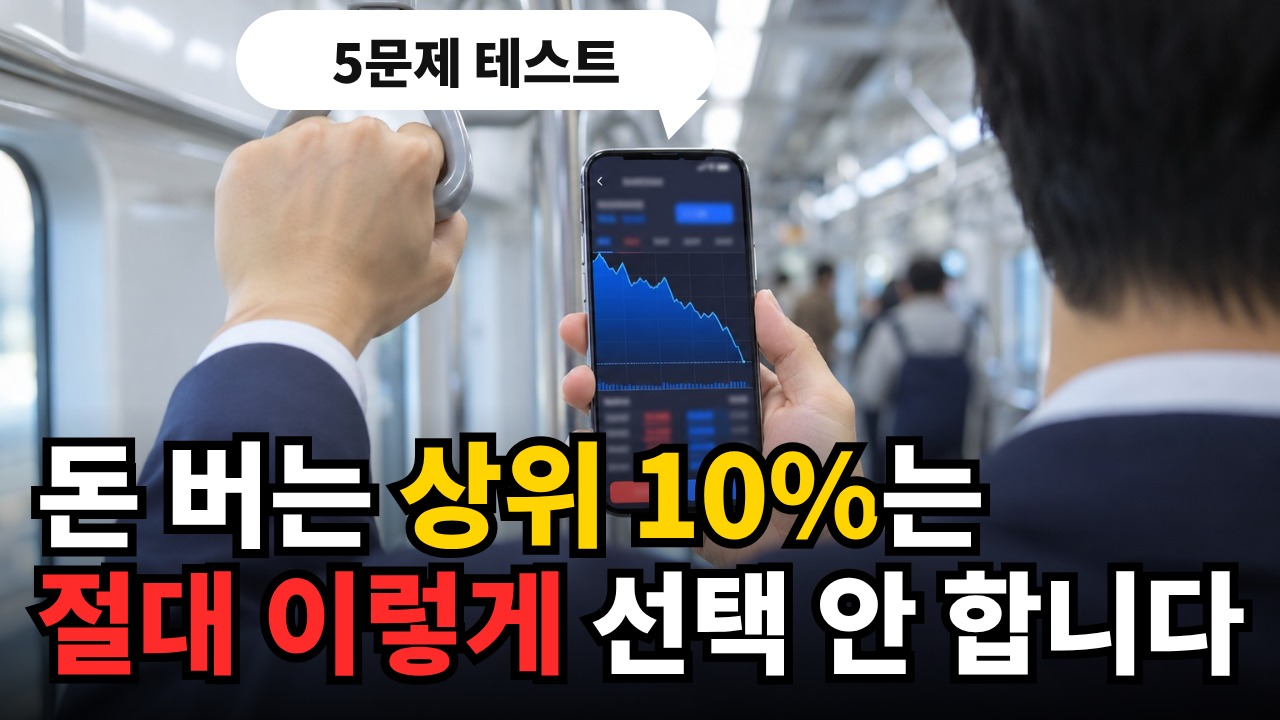
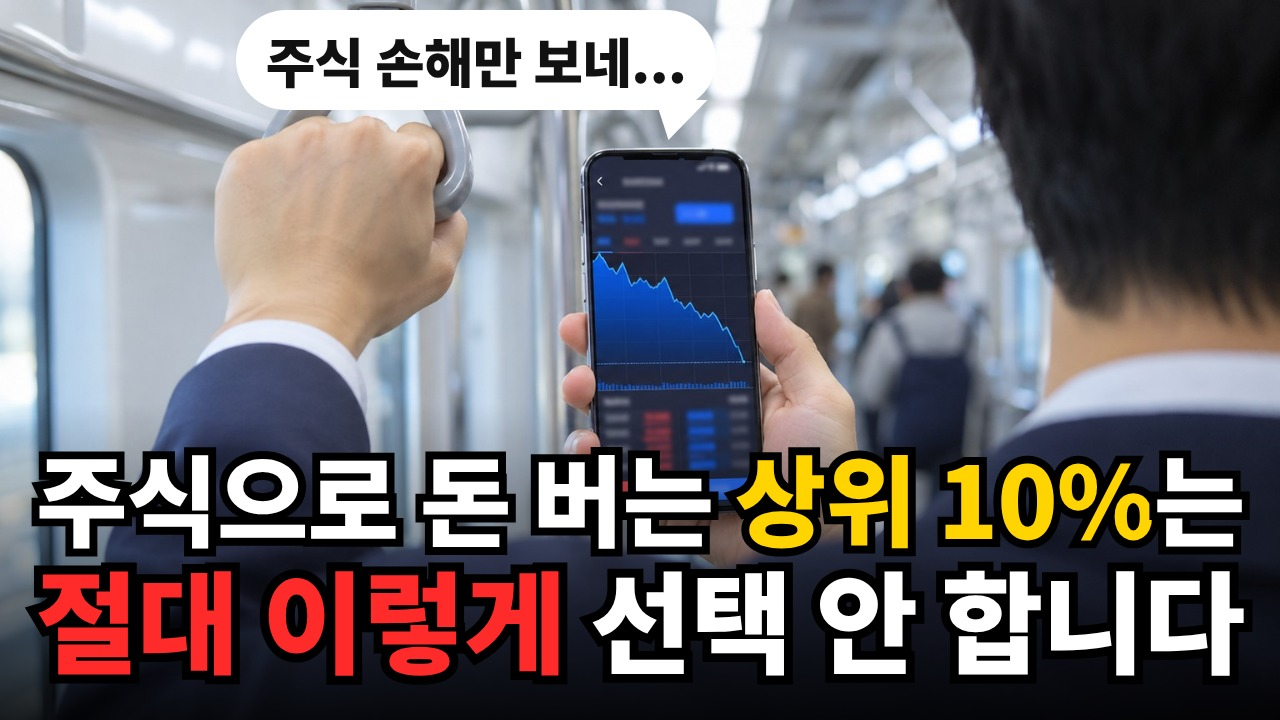
[stock] 1편 A/B 썸네일 2·3 문구·말풍선 고침 (5가지 선택 · 주식으로 돈 버는 상위 10%)
사용자 지시 "이런 5가지 선택~ 무조건 주식 손해~ 이렇게 수정하고 보조문구는 설마 나도? 설정하고 주식으로 돈 버는 ~ 상위10% 이렇게 수정하고 보조 문구는 주식 손해만 보네...  수정해".

Claude-Session: https://claude.ai/code/session_01PYG2Mrbc8C4HDSnBDWyHf6

Changed region(s): [[0.0, 0.5806, 1.0, 0.7944], [0.1875, 0.0306, 0.5312, 0.1222]]

diff --git a/stock/source/ppalli-test-2026-11/upload.md b/stock/source/ppalli-test-2026-11/upload.md
@@ -1,6 +1,7 @@
 # ppalli-test-2026-11 업로드 시트
 
-버전: v1.14 — 2026-11-05 — 1-1번 A/B 테스트 제목·썸네일 짝 (사용자 지시 "1. 주식 투자 중 이런 선택을 한다면 당신은 무조건 손해볼겁니다 2. 주식으로 돈버는 상위 %는 절대 이렇게 선택하지 않습니다 이 두가지 제목에 맞춰 썸네일 문구들 새로 만들어봐 상위%는 몇프로인지 평균 수치로 채우고" → "1편 ab 테스트에 쓸거야") · 썸네일 2·3 문구 새로.
+버전: v1.15 — 2026-11-06 — 1-1번 B·C 썸네일 문구·말풍선 (사용자 지시 "이런 5가지 선택~ 무조건 주식 손해~ 이렇게 수정하고 보조문구는 설마 나도? 설정하고 주식으로 돈 버는 ~ 상위10% 이렇게 수정하고 보조 문구는 주식 손해만 보네...  수정해").
+이전 v1.14 — 2026-11-05 — 1-1번 A/B 테스트 제목·썸네일 짝 (사용자 지시 "1. 주식 투자 중 이런 선택을 한다면 당신은 무조건 손해볼겁니다 2. 주식으로 돈버는 상위 %는 절대 이렇게 선택하지 않습니다 이 두가지 제목에 맞춰 썸네일 문구들 새로 만들어봐 상위%는 몇프로인지 평균 수치로 채우고" → "1편 ab 테스트에 쓸거야") · 썸네일 2·3 문구 새로.
 이전 v1.13 — 2026-11-05 — 외국어 설정 (사용자 지시 "외국어 자막, 제목, 썸네일 등 외국어 설정에 필요한 것들 생성하고 지시사항에 반영해 이건 영상이 렌더까지 완료되면 하는거야"): 6번 언어별 제목·설명 9개 언어(en·hi·id·pt·es-419·ja·de·vi·tr — 1·2번 그대로 옮김, 챕터 시각 같음) · 자막 = 한국어 + 언어별 SRT 9개 (`subs/`, `tools/subs_tool.py` build — 완성 영상의 문장 시각) · 언어별 썸네일 `thumbnails/<언어>/thumbnail_1.jpg` (`thumb.mjs` v1.2 lang) · 업로드 설정에 기본 언어 ko · 자막 올리기 언어별 · 섹션 번호 6→7·7→8·8→9.
 이전 v1.12 — 2026-11-05 — 설명란 줄임·태그 늘림 (사용자 지시 "김씨는 실제 숫자로 만든 가상의 인물입니다. 내레이션은 AI 음성이고, 그림은 AI로 만든 연출입니다. 다섯 가지 선택, 계산기준빼고 태그도 더 추가 하는걸로 설명 만들자 지시사항에도 반영해" — `stock/guides/quick_board.md` 규칙 45): '다섯 가지 선택'·'계산 기준'·'○씨는 가상의 인물'·'AI 음성/그림' 줄 뺌 · 태그 24개(편 낱말 + 실제 영상 태그 `stock/tag_candidates.md`).
 이전 v1.11 — 2026-11-05 — 설명란 끝을 면세 편 꼴로: '그림은 AI로 만든 연출' + 해시태그 2개 (사용자 "영상 설명 좀 면세 영상 올릴 때 처럼 자세하게") · 실험 썸네일 2·3 을 실사 TH-PHOTO2 로 다시 그림(옛 TH-ART 얼굴 그림이 남아 있었음).
@@ -31,9 +32,10 @@
 | 안 | 제목 | 썸네일 | 문구 (아래 2줄 · 말풍선) |
 |---|---|---|---|
 | A (본안) | 주식 투자 실패하는 사람들은 절대 통과 못하는 테스트 | `thumbnails/thumbnail_1.jpg` | 주식 투자 실패하는 사람들은 / 절대 통과 못하는 테스트 · 「-50%, -70% 손실」「설마 나도?」 |
-| B | 주식 투자 중 이런 선택을 한다면 당신은 무조건 손해볼겁니다 | `thumbnails/thumbnail_2.jpg` | **이런 선택**을 한다면 / 무조건 **손해** 봅니다 · 「나도 따라 샀는데?」 |
-| C | 주식으로 돈버는 상위 10%는 절대 이렇게 선택하지 않습니다 | `thumbnails/thumbnail_3.jpg` | 돈 버는 **상위 10%**는 / **절대 이렇게** 선택 안 합니다 · 「5문제 테스트」 |
+| B | 주식 투자 중 이런 선택을 한다면 당신은 무조건 손해볼겁니다 | `thumbnails/thumbnail_2.jpg` | **이런 5가지 선택**을 한다면 / 무조건 **주식 손해** 봅니다 · 「설마 나도?」 |
+| C | 주식으로 돈버는 상위 10%는 절대 이렇게 선택하지 않습니다 | `thumbnails/thumbnail_3.jpg` | 주식으로 돈 버는 **상위 10%**는 / **절대 이렇게** 선택 안 합니다 · 「주식 손해만 보네...」 |
 
+- 2026-11-06 문구·말풍선 고침 (사용자 지시 "이런 5가지 선택~ 무조건 주식 손해~ 이렇게 수정하고 보조문구는 설마 나도? 설정하고 주식으로 돈 버는 ~ 상위10% 이렇게 수정하고 보조 문구는 주식 손해만 보네...  수정해").
 - 'A/B 테스트' 는 API 로 못 함 — 사용자가 스튜디오에서 (영상 → 제목 옆 '테스트 및 비교' → 제목·썸네일 3안). 그림은 셋 다 본안과 같은 실사(`images/TH-PHOTO2.jpg`), 문구만 다름.
 - **'상위 10%'** = 사용자 지시 '평균 수치로' → 흔히 인용되는 '개인 투자자 10%만 번다(90%는 잃는다)' 값. ⚠ 이 값을 직접 밝힌 2020년대 1차 연구는 찾지 못함 (2026-11-05 검색 — 자본시장연구원 2021: 2020년 3~10월 개인 약 20만 명 가운데 약 46% 손실 · 1편 영상 안에는 이 숫자를 증명하는 장면 없음, CLAUDE.md '숫자는 대본이 증명'과 어긋남 — 사용자 확인 필요).
 - 제목 길이 (`title_fit.py`): B 33자 — PC 다음 동영상(좁은 화면)만 3줄 ❌ · C 33자 ✅. '무조건'·'절대'는 반론 페르소나 K8 과장 낱말(`board_check.py`) — 사용자 제목이라 그대로.

diff --git a/guides/status.md b/guides/status.md
@@ -1,5 +1,6 @@
 # 지금 상태·다음 할 일 (인수인계)
 
+버전: v3.75 — 2026-11-06 — **1편 A/B 썸네일 고침** (사용자 "이런 5가지 선택~ 무조건 주식 손해~ 이렇게 수정하고 보조문구는 설마 나도? 설정하고 주식으로 돈 버는 ~ 상위10% 이렇게 수정하고 보조 문구는 주식 손해만 보네...  수정해"): B 「이런 5가지 선택을 한다면 / 무조건 주식 손해 봅니다」 + 「설마 나도?」 · C 「주식으로 돈 버는 상위 10%는 / 절대 이렇게 선택 안 합니다」 + 「주식 손해만 보네...」 — 1편 시트 v1.15
 버전: v3.74 — 2026-11-06 — **1편 A/B 테스트 짝** (사용자 "1. 주식 투자 중 이런 선택을 한다면 당신은 무조건 손해볼겁니다 2. 주식으로 돈버는 상위 %는 절대 이렇게 선택하지 않습니다 이 두가지 제목에 맞춰 썸네일 문구들 새로 만들어봐 상위%는 몇프로인지 평균 수치로 채우고" → "1편 ab 테스트에 쓸거야"): B 「주식 투자 중 이런 선택을 한다면 당신은 무조건 손해볼겁니다」 + thumbnail_2 「이런 선택을 한다면 / 무조건 손해 봅니다」 · C 「주식으로 돈버는 상위 10%는 절대 이렇게 선택하지 않습니다」 + thumbnail_3 「돈 버는 상위 10%는 / 절대 이렇게 선택 안 합니다」 — 1편 시트 v1.14 1-1번 · 스튜디오 '테스트 및 비교'는 사용자가 · ⚠ '상위 10%' 근거 1차 연구 없음(사용자 확인)
 버전: v3.73 — 2026-11-05 — **2편 음성 확인** (사용자 "2편 음성 확인해서 발음 이상하거나 이상한 소리나는 부분 찾아봐"): 새 도구 `tools/audio_check.py` v1.0 (음성 인식은 이 환경에서 막힘 — 소리 모양 후보 + 발음 확인 낱말) → 2편 롱폼 문장 29 「당신은 그사이…」 앞 0.2초 웅얼거림 → 무음 (narration.mp3 · 완성 mp4) · 2편 쇼츠 후보 0 · 귀로 확인할 것 2편 문장 18·84·85 · ⚠ 같은 잡음 3편 문장 72 · 4편 문장 9 (아직 안 고침) · ⚠ 올린 `EV12LtESXuI` 는 옛 소리 — 1편처럼 새로 올리고 옛 것 지워야 함 (사용자 확인 기다림) · tts_guide v1.21 · quick_board v3.10 · CLAUDE.md
 버전: v3.72 — 2026-11-05 — **2편 롱폼 썸네일 문구** 「수익나도 결국 손실인 사람들은 / 0점 맞는 테스트」 (사용자 "2편 롱폼 썸네일 문구 수익나도 결국 손실인 사람들은 ~ 이렇게 변경해 사람들은 붙여야해" — 한국어 + 9개 언어) → 올린 `EV12LtESXuI` 에 다시 · **2편 쇼츠 썸네일이 안 붙던 까닭** (사용자 "그리고 왜 쇼츠 썸네일은 적용 안되는거야?"): 올리자마자(처리 전) 보내 세로 썸네일이 안 생김 → 처리 뒤 다시 보내 `H0k8gbYeIYo` 에 shortsAspectRatio 720×1280 생김 · `youtube_upload.py` v1.15 (쇼츠는 처리 기다린 뒤 + 확인) · upload_guide · CLAUDE.md

diff --git a/CHANGELOG.md b/CHANGELOG.md
@@ -1,5 +1,10 @@
 # CHANGELOG — youtube_topic_analyzer
 
+## 2026-11-06 — 1편 A/B 썸네일 2·3 문구·말풍선 고침
+
+- 사용자 지시 "이런 5가지 선택~ 무조건 주식 손해~ 이렇게 수정하고 보조문구는 설마 나도? 설정하고 주식으로 돈 버는 ~ 상위10% 이렇게 수정하고 보조 문구는 주식 손해만 보네...  수정해".
+- 썸네일 2: 「**이런 5가지 선택**을 한다면 / 무조건 **주식 손해** 봅니다」 · 말풍선 「설마 나도?」 · 썸네일 3: 「주식으로 돈 버는 **상위 10%**는 / **절대 이렇게** 선택 안 합니다」 · 말풍선 「주식 손해만 보네...」 — 다시 그려 직접 봄 (말풍선은 위 띠, 사람 안 가림). 1편 시트 v1.15.
+
 ## 2026-11-06 — 1편 A/B 테스트 제목·썸네일 짝 (실험안 2·3)
 
 - 사용자 지시 "1. 주식 투자 중 이런 선택을 한다면 당신은 무조건 손해볼겁니다 2. 주식으로 돈버는 상위 %는 절대 이렇게 선택하지 않습니다 이 두가지 제목에 맞춰 썸네일 문구들 새로 만들어봐 상위%는 몇프로인지 평균 수치로 채우고" → "1편 ab 테스트에 쓸거야".
